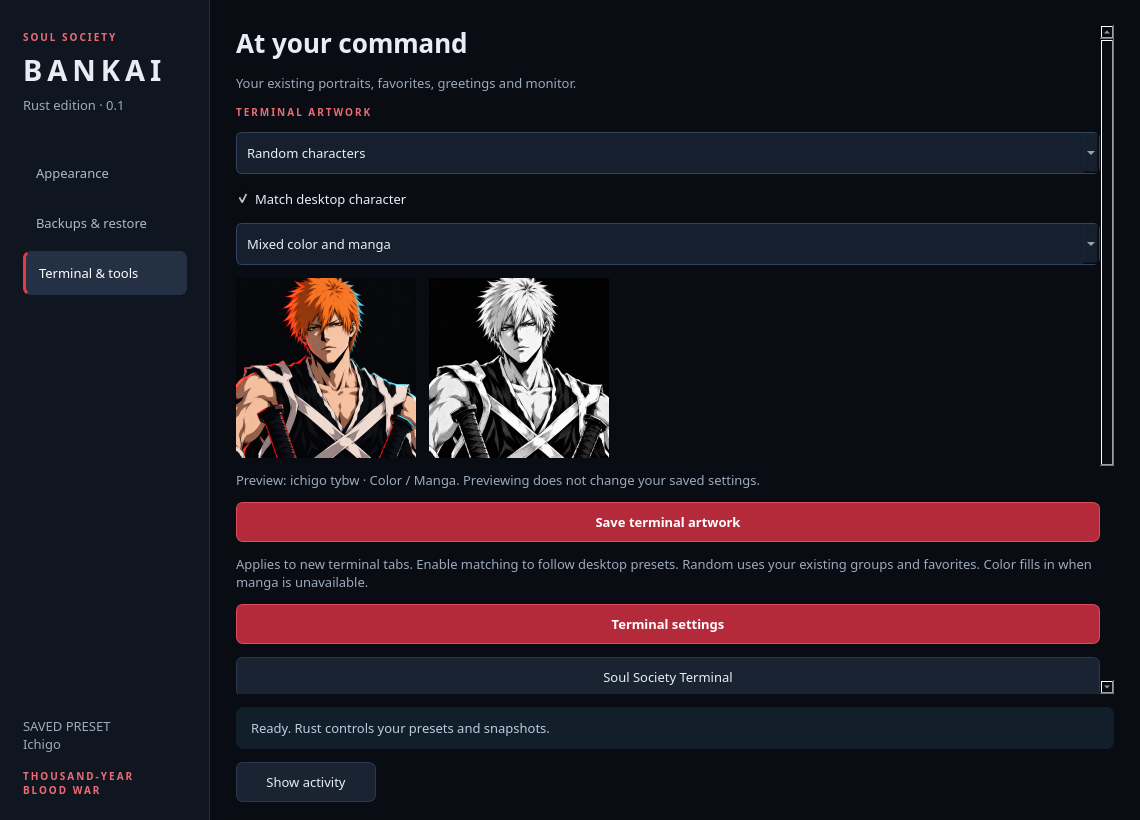
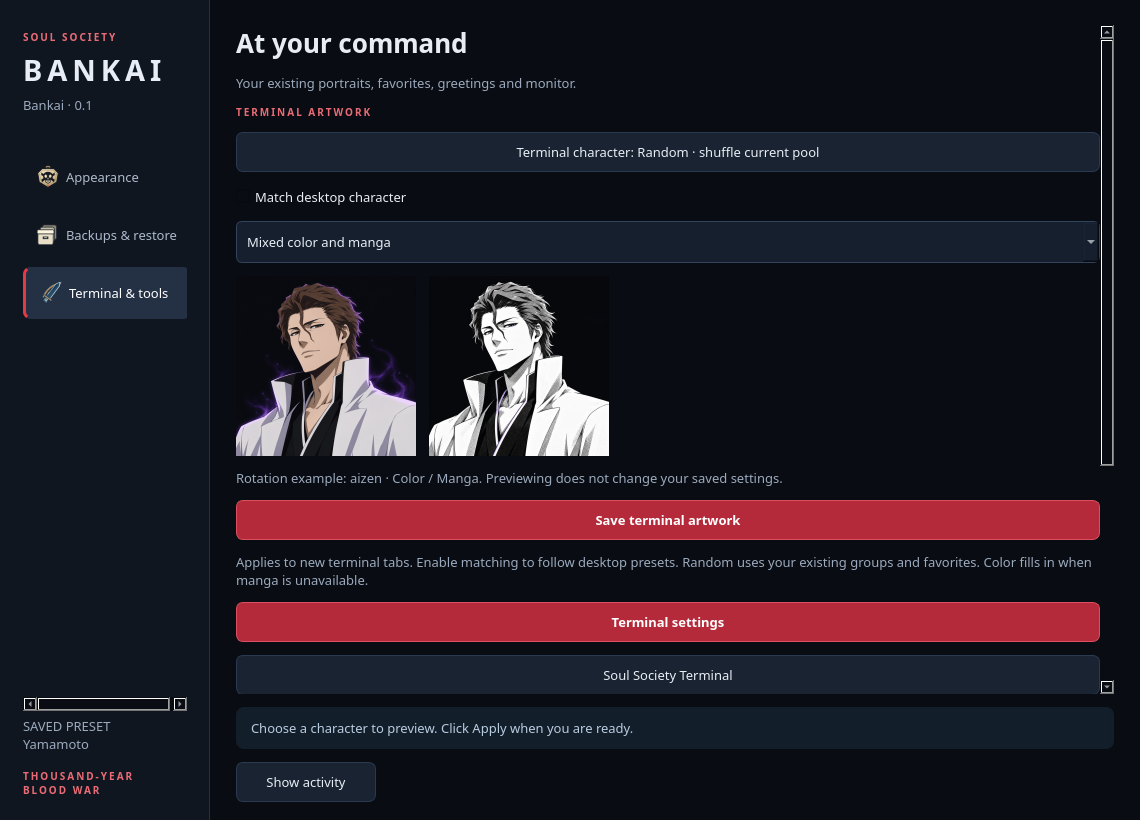
Document terminal character picker updates

diff --git a/desktop/rust/native/gui.cpp b/desktop/rust/native/gui.cpp
@@ -1266,6 +1266,9 @@ static int smoke(Window &window, const QString &directory) {
     throw std::runtime_error("Portrait preview changed saved settings");
   if (!window.portraitCaption->text().contains("Previewing"))
     throw std::runtime_error("Portrait preview caption missing");
+  window.matchDesktop->setChecked(false);
+  window.portraitChoice->setCurrentIndex(window.portraitChoice->findData("random"));
+  window.updatePortraitPreview();
   window.grab().save(directory + "/rust-terminal-art.png");
   window.navigation->setCurrentRow(1);
   qApp->processEvents();

diff --git a/desktop/README.md b/desktop/README.md
@@ -25,7 +25,7 @@ Each install guide is self-contained. You do not need to install the other contr
 
 **Rust terminal artwork preview**
 
-![Rust color and manga preview with desktop matching](../docs/screenshots/rust-terminal-art.png)
+![Rust terminal tools with the searchable character selector](../docs/screenshots/rust-terminal-art.png)
 
 **Appearance controls**
 
@@ -73,4 +73,4 @@ These settings control Bankai only. Minimizing other restored applications is a 
 
 The background page offers Color/Manga wallpaper edition, an optional custom accent, fixed/following manga login scene, and a character pool for optional shuffle at login. Saving these options does not apply a desktop preset; use Apply afterward for wallpaper/accents. Login-scene choice syncs after system setup. Preferences live in `~/.local/share/bleach-desktop/appearance.json`, survive updates/uninstall and are captured by desktop snapshots. The default is color wallpaper, character accent, following login scene, and no login shuffle.
 
-The twelve presets include TYBW Renji, adult Bankai Hitsugaya, Bankai Kenpachi and Yhwach. Their manga scenes are available for both backgrounds and login. Terminal artwork has its own Color/Manga/Mixed selection, favorites and rotation, including two additional TYBW forms. Original Ulquiorra art remains a legacy-arc option.
+The twelve presets include TYBW Renji, adult Bankai Hitsugaya, Bankai Kenpachi and Yhwach. Their manga scenes are available for both backgrounds and login. Rust's Terminal & tools page includes a searchable portrait grid with faction/form filters, recent and favorite selections, keyboard navigation and a persistent Random choice. Terminal artwork has its own Color/Manga/Mixed setting and rotation, including two additional TYBW forms. Original Ulquiorra art remains a legacy-arc option.

diff --git a/desktop/rust/INSTALL.md b/desktop/rust/INSTALL.md
@@ -53,7 +53,7 @@ Search **Bankai** in KDE's app menu, or run:
 
 Use `bankai tray` for tray mode and `bankai backups` for backup management. `bankai-rust` remains available as a direct compatibility command. If the short command is not found, open a new Fish session or use the absolute path above. Run `bankai-doctor` inside Fish to check the terminal theme.
 
-In **Terminal & tools**, preview a portrait and choose Color/Manga/Mixed, then click **Save terminal artwork**. Enable **Match desktop character** to follow desktop preset changes; leave it off for independent rotation. New tabs use the saved choice. `bankai-pick --session reset` in Fish clears a shell-only override.
+In **Terminal & tools**, open **Choose terminal character…** for a searchable thumbnail grid. Filter by faction, forms, new arrivals, recent use or favorites; Random stays available at the top. Press `/` to focus search, use arrow keys to move between cards, and press Enter to select. Choose Color/Manga/Mixed and click **Save terminal artwork**. Enable **Match desktop character** to follow desktop preset changes; leave it off for independent rotation. New tabs use the saved choice. `bankai-pick --session reset` in Fish clears a shell-only override.
 
 ## Update or switch editions
 

diff --git a/docs/CHANGES.md b/docs/CHANGES.md
@@ -2,6 +2,7 @@
 
 ## Unreleased
 
+- Improve the Rust terminal character picker with a searchable thumbnail grid, faction/form filters, recent and favorite selections, keyboard navigation, clearer empty states and an always-available random choice.
 - Expand to twelve desktop presets with TYBW Renji, adult Bankai Hitsugaya, Bankai Kenpachi and Yhwach, plus matching full manga scenes.
 - Correct Ichigo's wallpaper to his Royal Palace True Shikai design and Yamamoto's TYBW arm/weapon design. Keep Ulquiorra as a legacy option.
 - Add TYBW Ichigo and Bankai Kenpachi color/manga terminal portraits, character accents and a TYBW forms group: 46 portraits / 92 editions, still 36 characters.
